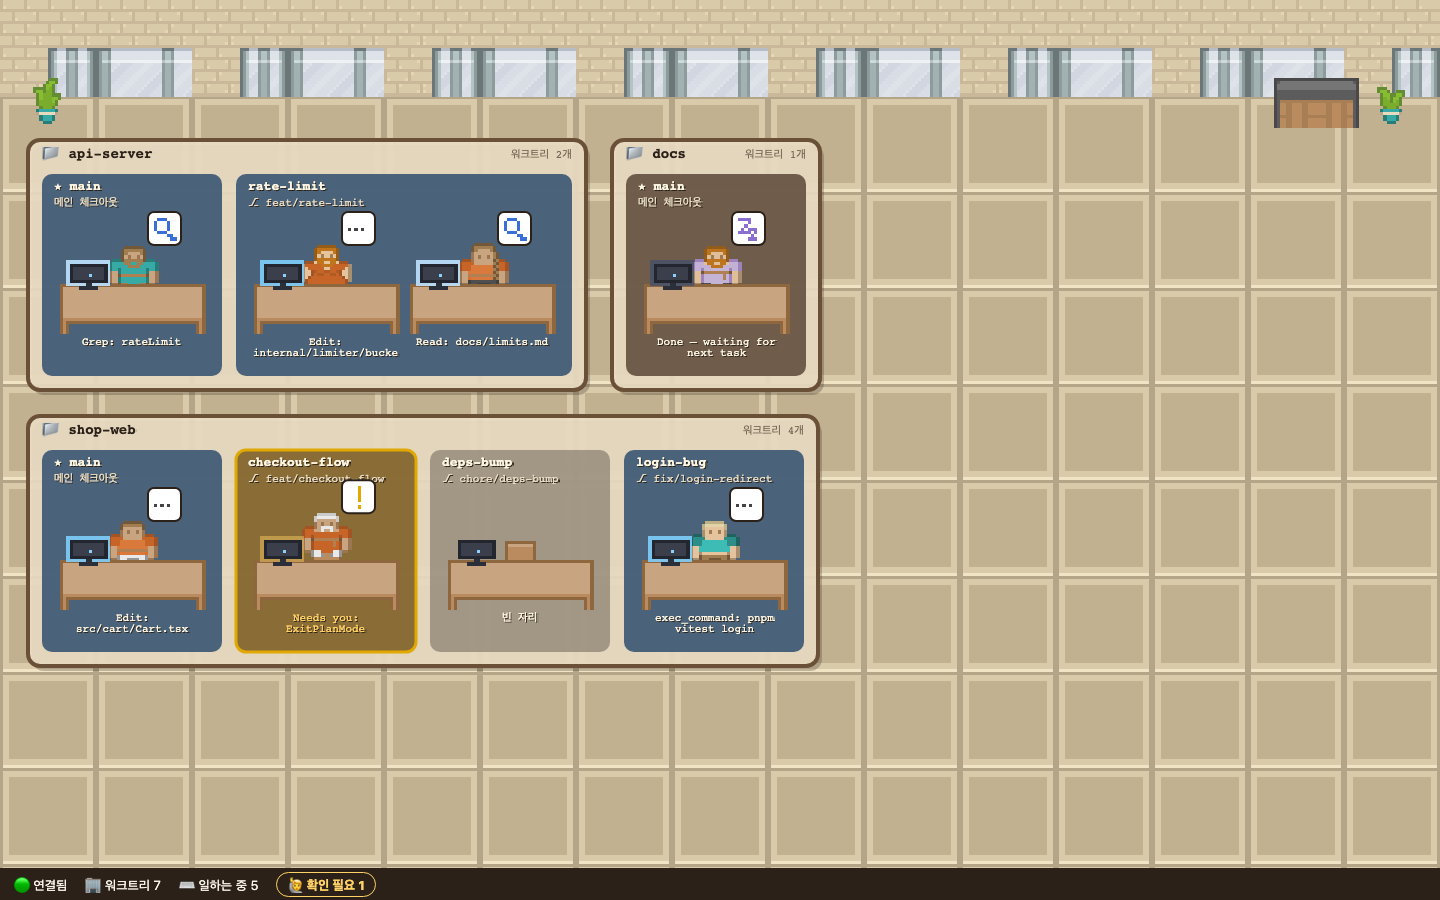
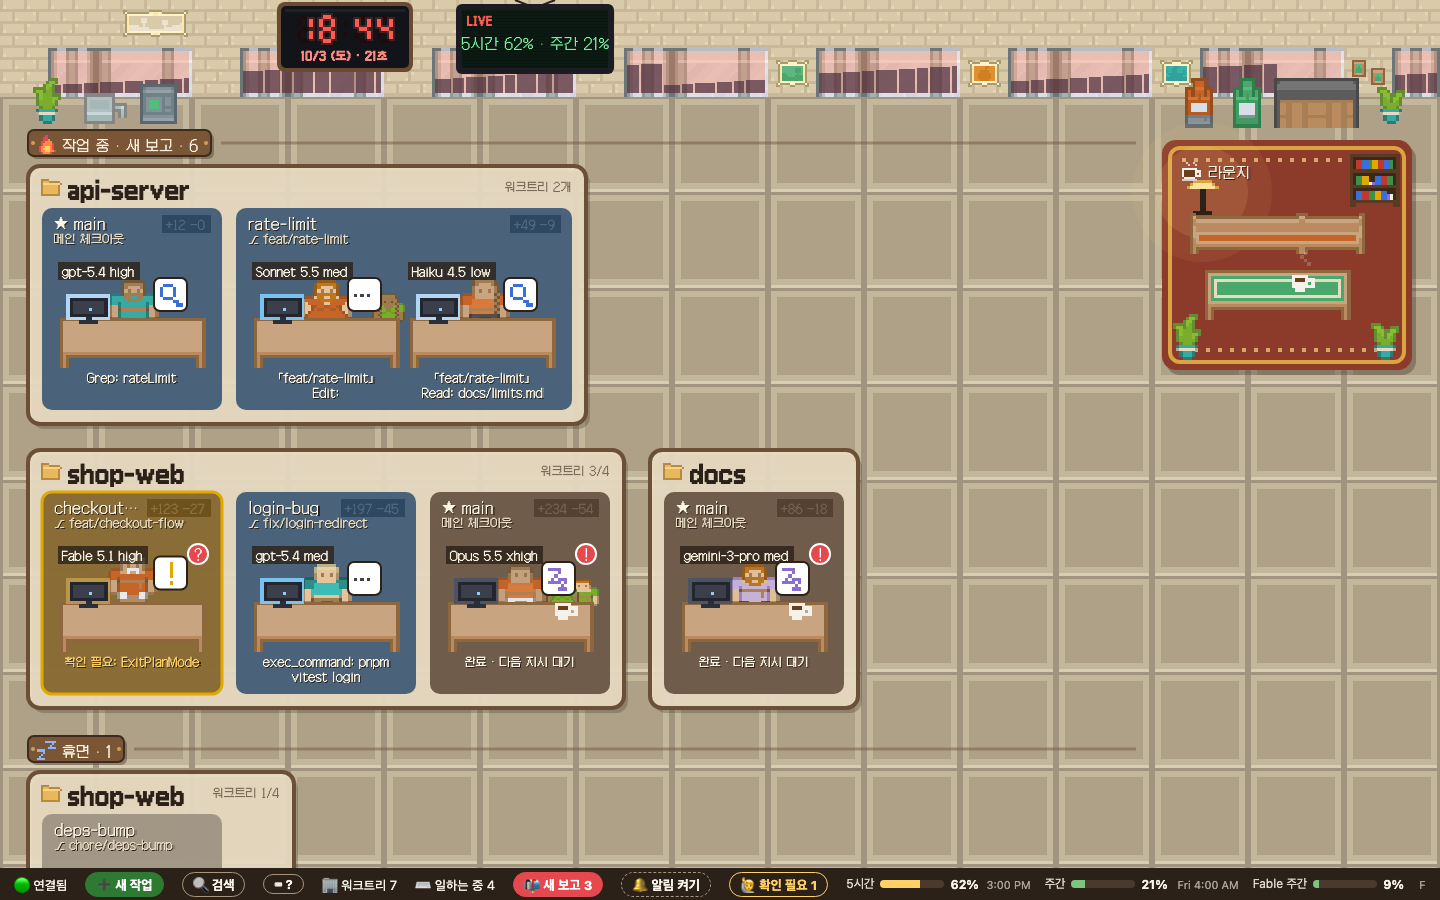
README: current screenshots (demo), animated office, full feature table
Also hides usage reset times on narrower screens so the status bar fits.

Claude-Session: https://claude.ai/code/session_01H14fatynSvCTcQFeRstTcL

diff --git a/web/src/style.css b/web/src/style.css
@@ -1421,3 +1421,18 @@ body.night .slash-menu .item.active {
   font-size: 11px;
   color: var(--muted);
 }
+
+/* Crowded status bar on narrower screens: drop reset times, then the bar labels. */
+@media (max-width: 1600px) {
+  #status-bar .meter .reset {
+    display: none;
+  }
+}
+@media (max-width: 1250px) {
+  #status-bar .meter .bar {
+    width: 36px;
+  }
+  #status-bar .status-left {
+    gap: 10px;
+  }
+}

diff --git a/README.md b/README.md
@@ -4,14 +4,18 @@
 책상에 앉은 캐릭터로 보여주고, 캐릭터를 눌러 대화를 읽고 바로 지시를 보낼 수 있습니다.
 터미널·워크트리 관리는 Orca가 그대로 하고, Office Desks는 그 위의 "현황판 + 조작 패널" 역할만 합니다.
 
-![사무실](docs/office.png)
+![사무실](docs/office.gif)
 
-- **프로젝트 = 방, 워크트리 = 팀 자리, 에이전트 = 캐릭터.** 캐릭터의 움직임과 말풍선이 지금 하는 일을 보여줍니다.
-- **전체 대화 보기**: Markdown 렌더링, 스크린샷 포함, 작업 중 보낸 추가 메시지, 서브에이전트 대화까지.
-- **바로 지시 보내기**: Enter 전송, 이미지 붙여넣기, `/` 명령어·스킬 자동완성.
+- **프로젝트 = 방, 워크트리 = 팀 자리, 에이전트 = 캐릭터.** 작업 중 / 대기 / 휴면 층으로 나뉘고 최신이 왼쪽입니다.
+- **전체 대화 보기**: Markdown, 스크린샷, 작업 중 보낸 추가 메시지, 대기열, 서브에이전트 대화까지.
+- **바로 지시 보내기**: Enter 전송, 이미지 붙여넣기, `/` 명령어·스킬 자동완성, 중단·지금 보내기·대기 취소.
 - **질문 카드**: 에이전트가 질문(AskUserQuestion)하면 대화창에 카드로 뜨고, 선택지를 눌러 바로 답합니다.
 - **메뉴 조작**: `/usage`, `/config`, 권한 확인처럼 터미널에 뜬 메뉴를 웹에서 키보드로 그대로 조작.
-- **사용량과 모델**: 하단에 5시간·주간·Fable 주간 사용량(Orca와 같은 값), 책상마다 모델과 effort 표시.
+- **변경사항**: 워크트리별 커밋 전 변경(+/−)과 PR 배지, 파일별 diff.
+- **새 작업**: 웹에서 새 워크트리+에이전트를 만들거나 기존 워크트리에 에이전트 추가, Orca 보드 상태·코멘트 편집.
+- **알림과 검색**: 끝난 에이전트 배지·데스크톱 알림, 모든 대화 검색(`Ctrl/⌘+K`).
+- **사용량과 모델**: 하단에 5시간·주간·Fable 주간 사용량(Orca와 같은 값), 책상마다 모델과 effort.
+- **사무실 꾸밈**: PC 시간 따라 바뀌는 창밖(밤엔 별과 야경), LED 시계, 현황 TV, 라운지.
 
 ![패널](docs/panel.png)
 
@@ -108,19 +112,29 @@ npm run demo        # 가짜 데이터(프로젝트 3개, 워크트리 7개, 상
 
 | 하고 싶은 것 | 방법 |
 | --- | --- |
-| 에이전트 대화 보기 | 캐릭터(책상) 클릭 → 오른쪽 패널의 **💬 대화** |
-| 지시 보내기 | 패널 아래 입력창에 쓰고 **Enter** (줄바꿈은 Shift+Enter) |
+| 에이전트 대화 보기 | 캐릭터(책상) 클릭, 또는 `j`/`k`로 다음·이전 에이전트 |
+| 지시 보내기 | 패널 아래 입력창에 쓰고 **Enter** (줄바꿈은 Shift+Enter, `/`로 입력창 이동) |
 | 이미지 보내기 | 입력창에 붙여넣기(⌘/Ctrl+V), 끌어다 놓기, 또는 🖼 버튼 |
 | 명령어·스킬 | 입력창에 `/` → ↑↓ 이동, Tab/Enter 선택 |
-| 메뉴·권한 확인 조작 | **🖥 터미널** 탭 화면을 클릭하고 키보드로 조작 (↑↓, Enter, Esc, 글자) |
+| 작업 중단 | 일하는 에이전트 옆 **⏹ 중단** (한 번 더 눌러 확인) |
+| 대기 중인 메시지 | 대화 맨 아래 **⚡ 지금 보내기** / **🗑 취소** |
 | 에이전트 질문에 답하기 | 대화 속 🙋 질문 카드에서 선택 → **답변 보내기** |
+| 메뉴·권한 확인 조작 | **🖥 터미널** 탭 화면을 클릭하고 키보드로 조작 (↑↓, Enter, Esc, 글자) |
+| 변경 파일과 diff | **📝 변경** 탭 |
 | 서브에이전트 대화 | 대화 속 🤖 카드 클릭 |
-| 최신 대화로 돌아가기 | 위로 스크롤했을 때 뜨는 **⬇ 최신으로** (새 메시지 수 표시) |
-| 패널 닫기 | 사무실 빈 곳 클릭, ✕, 또는 Esc |
+| 새 워크트리 + 에이전트 | 상태바 **➕ 새 작업** (또는 `n`) |
+| 빈 워크트리에 에이전트 | 그 자리 패널의 **🧑 에이전트 추가** |
+| Orca 보드 상태·코멘트 | 패널 머리의 📋 드롭다운과 💬 편집 |
+| 대화 검색 | 상태바 **🔍 검색** 또는 `Ctrl/⌘+K` |
 | 끝난 에이전트 확인 | 책상의 빨간 배지(`!` 완료, `?` 확인 필요) 또는 상태바 **📬 새 보고 N** |
-| 데스크톱 알림 받기 | 상태바 **🔔 알림 켜기** → 에이전트가 끝나거나 확인을 요청하면 OS 알림, 누르면 그 대화가 열림 |
-| 기다리는 에이전트 찾기 | 아래 상태바의 **🙋 확인 필요 N** 클릭 |
-| Orca에서 해당 터미널 열기 | 패널의 **Orca에서 열기** |
+| 데스크톱 알림 | 상태바 **🔔 알림 켜기** (켜진 뒤엔 눌러서 테스트 알림) |
+| 최신 대화로 | 위로 스크롤했을 때 뜨는 **⬇ 최신으로** |
+| 확대 / 축소 | `Ctrl/⌘+휠`, `-` `=` `0` |
+| 패널 크기 | 패널 왼쪽 가장자리를 끌기 |
+| 패널 닫기 | 사무실 빈 곳 클릭, ✕, 또는 Esc |
+| 단축키 보기 | `?` 또는 상태바 **⌨ ?** |
+
+![질문 카드와 패널](docs/panel.png)
 
 ### 캐릭터 읽는 법
 
@@ -133,6 +147,9 @@ npm run demo        # 가짜 데이터(프로젝트 3개, 워크트리 7개, 상
 | `z` 말풍선 | 할 일 끝, 다음 지시 대기 |
 | 책상 옆 작은 초록 인턴 | 서브에이전트가 일하는 중 |
 | 책상 왼쪽 위 태그 (`Opus 5.5 xhigh`) | 마지막 턴의 모델과 effort |
+| 책상 위 머그컵 ☕ | 할 일을 끝내고 쉬는 중 |
+| 「세션 제목」 명찰 | 한 워크트리에 에이전트가 여럿일 때 구분용 |
+| 팀 자리 오른쪽 위 `+120 −30`, `PR #12` | 커밋 전 변경 줄 수, 연결된 PR |
 
 셔츠 색은 에이전트 종류입니다: 주황 = Claude, 청록 = Codex, 연보라 = Gemini, 초록 = 기타.
 방 이름표의 ★ 는 메인 체크아웃, `⎇` 는 브랜치, `↳` 는 Orca에서 분기된 부모 워크트리입니다.
